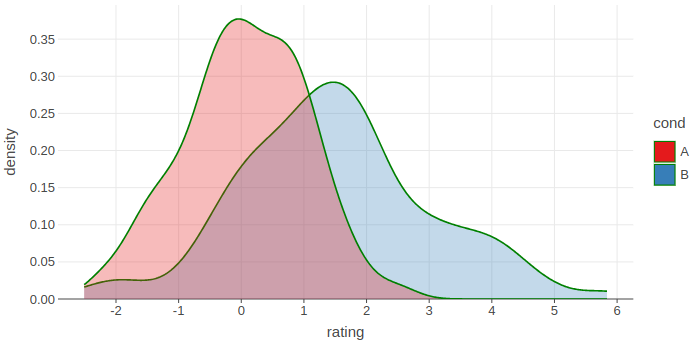
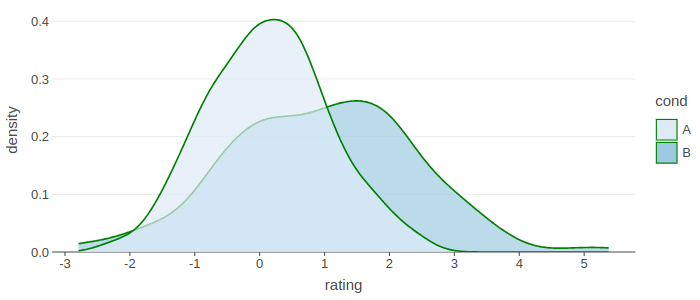
Writerside: Update code and image in the Quick Start section of the Get Started Page.

diff --git a/Writerside/topics/get-started.md b/Writerside/topics/get-started.md
@@ -14,14 +14,17 @@
 ## Quick Start
 
 ```kotlin
-val rand = java.util.Random()
+%use lets-plot
+
+val rand = java.util.Random(37)
 val data = mapOf (
-    "rating" to List(200) { rand.nextGaussian() } + List(200) { rand.nextGaussian() * 1.5 + 1.5 },
+    "rating" to List(200) { rand.nextGaussian() } + List(200) { rand.nextGaussian() * 1.5 + 1 },
     "cond" to List(200) { "A" } + List(200) { "B" }
 )
-letsPlot(data) +
-    geomDensity(color = "dark_green", alpha = .3) { x = "rating"; fill = "cond" } +
-    ggsize(700, 350)
+
+letsPlot(data) { x = "rating"; fill = "cond" } + ggsize(700, 300) +
+    geomDensity(color = "dark_green", alpha = .7) + scaleFillBrewer(type = "seq") +
+    theme(panelGridMajorX = "blank")
 ```
 
 ![Quick Start](quickstart.png)
